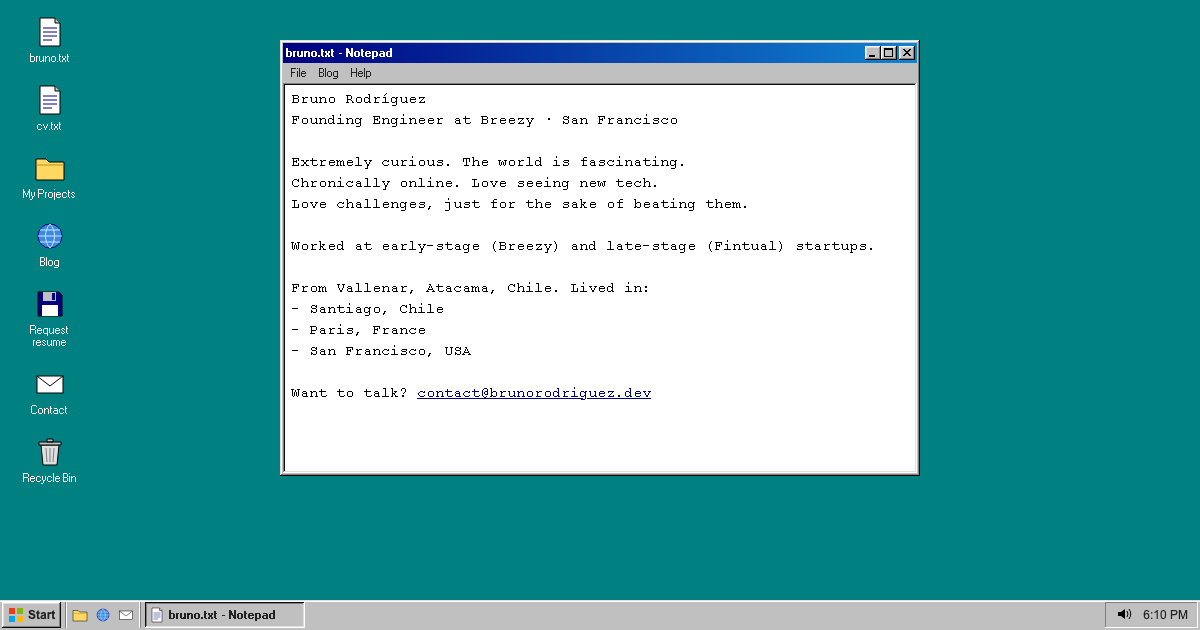
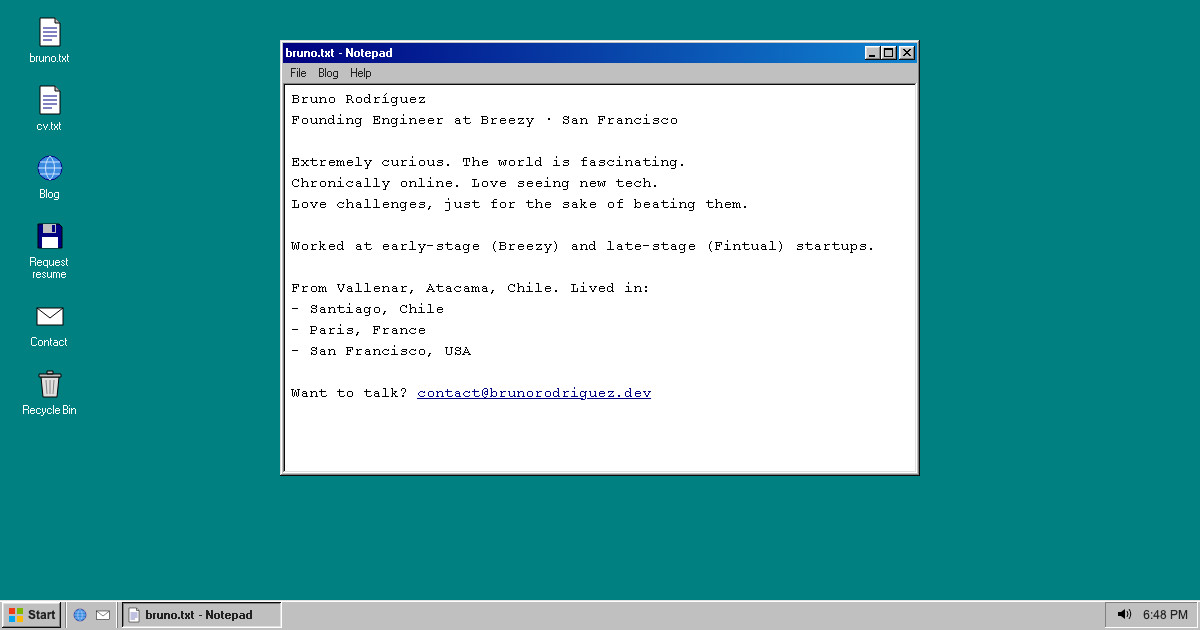
feat: remove the My Projects window
Drops the window, its desktop/Start/Quick Launch entries, the Run
suggestion and the now-unused folder icon. Retakes og-image.png without it.

diff --git a/index.html b/index.html
@@ -58,11 +58,6 @@
         top: 70px;
       }
 
-      #projects {
-        left: max(16px, calc(50% - 260px));
-        top: 100px;
-      }
-
       #contact {
         left: max(16px, calc(50% - 230px));
         top: 130px;
@@ -384,77 +379,6 @@ ELSEWHERE
 <a href="https://github.com/bruno-rose">github.com/bruno-rose</a>
 <a href="https://www.linkedin.com/in/bruno-rodriguez-sepulveda">linkedin.com/in/bruno-rodriguez-sepulveda</a>
 <a href="mailto:contact@brunorodriguez.dev">contact@brunorodriguez.dev</a></div>
-        </div>
-      </section>
-
-      <!-- DRAFT: Bruno to review this project list -->
-      <section class="window" id="projects" hidden>
-        <div class="title-bar">
-          <div class="title-bar-text">My Projects</div>
-          <div class="title-bar-controls">
-            <button aria-label="Minimize"></button>
-            <button aria-label="Maximize"></button>
-            <button aria-label="Close"></button>
-          </div>
-        </div>
-        <div class="window-body">
-          <div class="addressbar">
-            <label for="projects-addr">Address</label>
-            <input id="projects-addr" type="text" value="C:\My Projects" readonly />
-          </div>
-          <div class="sunken-panel files">
-            <table>
-              <thead>
-                <tr><th>Name</th><th>Type</th><th>Description</th></tr>
-              </thead>
-              <tbody>
-                <tr>
-                  <td><svg><use href="#ico-folder" /></svg><a href="https://github.com/Bruno-rose/treasure-roach">treasure-roach</a></td>
-                  <td>Python</td>
-                  <td>Autonomous research agent that rents its own GPUs on Akash and pays its own way, behind a Pomerium approval gate.</td>
-                </tr>
-                <tr>
-                  <td><svg><use href="#ico-folder" /></svg><a href="https://github.com/Bruno-rose/fufx">Congress Signal</a></td>
-                  <td>Python</td>
-                  <td>Crawls GovInfo.gov daily, extracts company and sector impacts with AI, and emails personalized digests.</td>
-                </tr>
-                <tr>
-                  <td><svg><use href="#ico-folder" /></svg><a href="https://github.com/Bruno-rose/brose-changelog-cli">brose-changelog-cli</a></td>
-                  <td>Python</td>
-                  <td>AI changelog generator that turns git history into structured changelogs. On PyPI.</td>
-                </tr>
-                <tr>
-                  <td><svg><use href="#ico-folder" /></svg><a href="https://github.com/Bruno-rose/gramatico-back">gramatico-back</a></td>
-                  <td>Python</td>
-                  <td>Script that fixes the grammar of whatever is on your clipboard with OpenAI and copies it back.</td>
-                </tr>
-                <tr>
-                  <td><svg><use href="#ico-folder" /></svg><a href="https://github.com/Bruno-rose/kanban">kanban</a></td>
-                  <td>TypeScript</td>
-                  <td>Real-time collaborative Kanban board with drag and drop and live presence (Next.js, Socket.IO).</td>
-                </tr>
-                <tr>
-                  <td><svg><use href="#ico-folder" /></svg><a href="https://github.com/Bruno-rose/gtl-api-onboarding">gtl-api-onboarding</a></td>
-                  <td>TypeScript</td>
-                  <td>Frontend demo for Greptile: index a repo, then ask questions about the code in natural language.</td>
-                </tr>
-                <tr>
-                  <td><svg><use href="#ico-folder" /></svg><a href="https://github.com/Bruno-rose/DPMultiQ">DPMultiQ</a></td>
-                  <td>Scala</td>
-                  <td>Scala port of Google Research's differentially private quantiles (JointExp).</td>
-                </tr>
-                <tr>
-                  <td><svg><use href="#ico-folder" /></svg><a href="https://github.com/Bruno-rose/valle-labs">valle-labs</a></td>
-                  <td>HTML</td>
-                  <td>Website for Valle Labs, a data and AI software factory.</td>
-                </tr>
-              </tbody>
-            </table>
-          </div>
-          <div class="status-bar">
-            <p class="status-bar-field">8 object(s)</p>
-            <p class="status-bar-field"><a href="https://github.com/bruno-rose">github.com/bruno-rose</a></p>
-          </div>
         </div>
       </section>
 

diff --git a/win98.js b/win98.js
@@ -5,13 +5,12 @@
   const APPS = [
     { label: "bruno.txt", icon: "note", open: "notepad" },
     { label: "cv.txt", icon: "note", open: "cv" },
-    { label: "My Projects", icon: "folder", open: "projects" },
     { label: "Blog", icon: "web", href: ROOT + "blog/index.html" },
     { label: "Request resume", icon: "disk", open: "resume" },
     { label: "Contact", icon: "mail", open: "contact" },
     { label: "Recycle Bin", icon: "bin", open: "recycle" },
   ];
-  const QUICK = ["Blog", "My Projects", "Contact"];
+  const QUICK = ["Blog", "Contact"];
   const LINKS = {
     linkedin: "https://www.linkedin.com/in/bruno-rodriguez-sepulveda",
     github: "https://github.com/bruno-rose",
@@ -53,10 +52,6 @@
       <path d="M6 2h15l5 5v23H6z" fill="#fff" stroke="#000" />
       <path d="M21 2v5h5" fill="silver" stroke="#000" />
       <path d="M9 12h14M9 16h14M9 20h14M9 24h9" stroke="#000080" />
-    </symbol>
-    <symbol id="ico-folder" viewBox="0 0 32 32">
-      <path d="M2 7h10l3 3h15v18H2z" fill="#ffd862" stroke="#000" />
-      <path d="M2.5 13h27" stroke="#b8901e" />
     </symbol>
     <symbol id="ico-mail" viewBox="0 0 32 32">
       <rect x="3" y="8" width="26" height="17" fill="#fff" stroke="#000" />
@@ -121,7 +116,7 @@
         <div class="field-row">
           <label for="run-cmd">Open:</label>
           <input id="run-cmd" name="cmd" list="run-list" autocomplete="off" autocapitalize="off" spellcheck="false" />
-          <datalist id="run-list">${["cv", "projects", "contact", "resume", "blog", "linkedin", "github", "mail"]
+          <datalist id="run-list">${["cv", "contact", "resume", "blog", "linkedin", "github", "mail"]
             .map((c) => `<option value="${c}"></option>`)
             .join("")}</datalist>
         </div>
